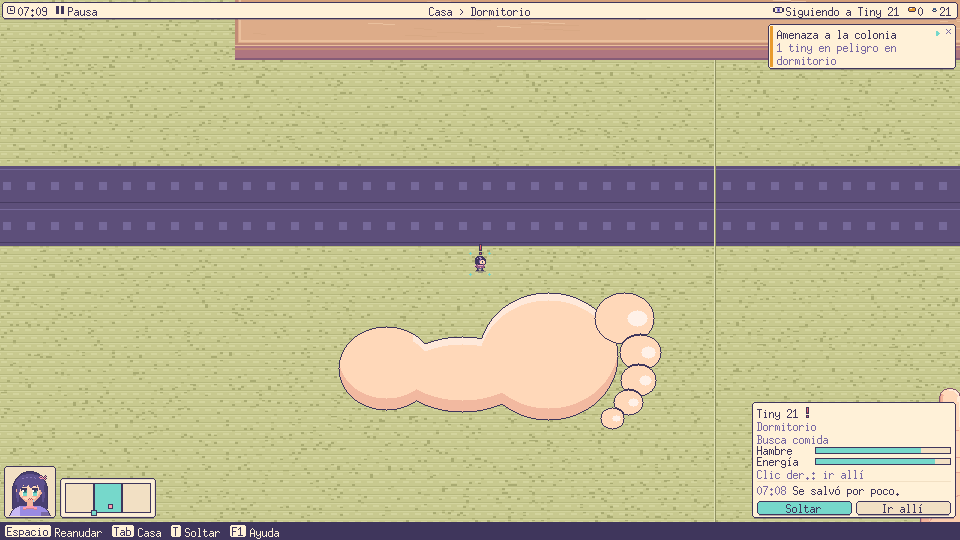
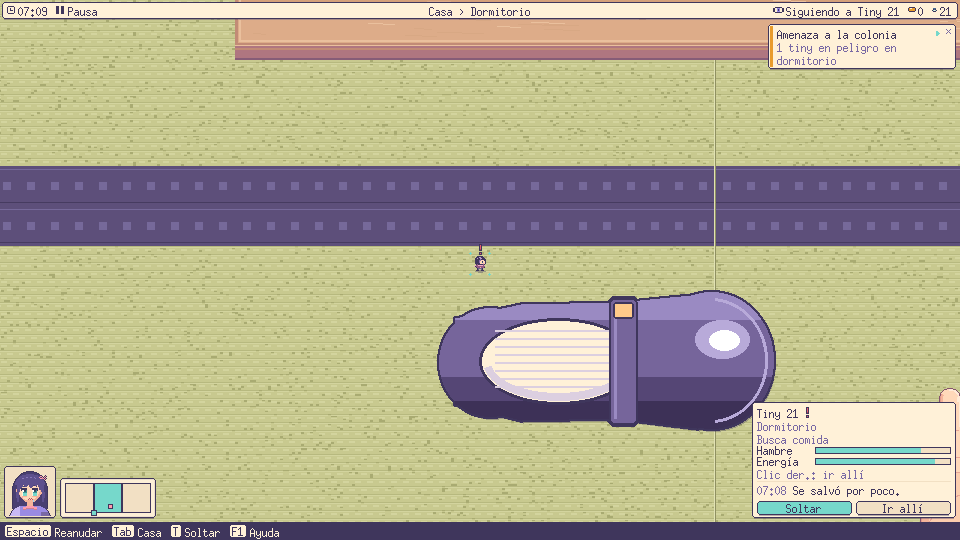
new shoes

Changed region(s): [[0.3438, 0.5333, 0.8125, 0.8]]

diff --git a/tools/art/floors.py b/tools/art/floors.py
@@ -14,7 +14,7 @@ presentación le da la transparencia).
 import math
 import os
 
-from PIL import Image
+from PIL import Image, ImageDraw
 
 from px import Canvas, hexc
 
@@ -106,50 +106,85 @@ TURNS = {'east': 0, 'north': 90, 'west': 180, 'south': 270}
 
 
 def foot_shape(skin=True):
-    """Pie derecho visto desde arriba mirando al este: talón a la izquierda,
-    dedos a la derecha. Es una unión de elipses: talón, arco, planta y dedos."""
-    c = Canvas(FOOT, FOOT)
+    """Calzado violeta con media crema visto desde arriba mirando al este
+    (talón a la izquierda, puntera redondeada a la derecha), 384 × 384 px."""
     cy = FOOT // 2
-    body = [(74, cy + 14, 48, 42), (150, cy + 20, 64, 38), (236, cy + 2, 70, 64)]
-    toes = [(312, cy - 36, 30, 26), (328, cy - 2, 21, 18), (326, cy + 26, 18, 16), (316, cy + 48, 15, 13),
-            (300, cy + 64, 12, 11)]
+    ink = hexc(INK)
+    shoe, shoe_l, shoe_hi, shoe_d, shoe_d2 = (
+        hexc('#76659B'), hexc('#9A8AC2'), hexc('#B8AAD9'), hexc('#554675'), hexc('#3D3157')
+    )
+    sock, sock_d = hexc('#FFF1D8'), hexc('#DCCFE0')
+    buckle, white = hexc('#FFCA8A'), hexc('#FFFFFF')
 
-    def ell(x, y, e):
-        ex, ey, rx, ry = e
-        return ((x - ex) / rx) ** 2 + ((y - ey) / ry) ** 2 <= 1
+    im = Image.new('RGBA', (FOOT, FOOT), (0, 0, 0, 0))
+    d = ImageDraw.Draw(im)
+    # Silueta del calzado mirando al este: talón a la izquierda, puntera redondeada a la derecha
+    shoe_pts = [
+        (42, cy - 42), (108, cy - 56), (206, cy - 58), (288, cy - 66),
+        (338, cy - 46), (354, cy - 16), (354, cy + 20), (336, cy + 50),
+        (284, cy + 68), (202, cy + 58), (108, cy + 60), (42, cy + 44),
+    ]
+    d.polygon(shoe_pts, fill=shoe)
+    d.ellipse([236, cy - 68, 360, cy + 68], fill=shoe)
+    d.ellipse([26, cy - 52, 128, cy + 56], fill=shoe)
 
-    shape = {}
+    if not skin:
+        px = im.load()
+        for y in range(FOOT):
+            for x in range(FOOT):
+                if px[x, y][3] > 0:
+                    px[x, y] = ink
+        return im
+
+    # Sombreado cel-shading (luz desde arriba a la izquierda)
+    px = im.load()
     for y in range(FOOT):
         for x in range(FOOT):
-            if any(ell(x, y, e) for e in body):
-                shape[x, y] = 'b'
-            for i, t in enumerate(toes):
-                if ell(x, y, t):
-                    shape[x, y] = i
-    if not skin:
-        for x, y in shape:
-            c.im.putpixel((x, y), hexc(INK))
-        return c.im
-    skin_c, shade, light, nail = hexc('#FFD8B9'), hexc('#F2B9A0'), hexc('#FFE9DA'), hexc('#FFF1E8')
-    for (x, y), part in shape.items():
-        col = skin_c
-        if part == 'b':
-            if (x, y + 12) not in shape:
-                col = shade  # lado de afuera, en sombra
-            elif (x, y - 8) not in shape and 100 < x < 290:
-                col = light  # empeine iluminado
-        c.im.putpixel((x, y), col)
-    ink = hexc(INK)
-    for (x, y), part in shape.items():
-        edge = any(shape.get((x + dx, y + dy)) is None for dx, dy in ((1, 0), (-1, 0), (0, 1), (0, -1)))
-        # surco entre cada dedo y lo demás
-        seam = isinstance(part, int) and any(
-            shape.get((x + dx, y + dy)) not in (None, part) for dx, dy in ((1, 0), (-1, 0), (0, 1), (0, -1)))
-        if edge or seam:
-            c.im.putpixel((x, y), ink)
-    for tx, ty, rx, ry in toes:  # uñas
-        c.ellipse(tx + rx // 2 - 2, ty, max(rx // 3, 3), max(ry // 3, 3), nail)
-    return c.im
+            if px[x, y][3] == 0:
+                continue
+            v = (y - (cy - 68)) / 136.0
+            if v < 0.20:
+                px[x, y] = shoe_l
+            elif v > 0.80:
+                px[x, y] = shoe_d2
+            elif v > 0.62:
+                px[x, y] = shoe_d
+
+    # Brillo lustroso en la puntera derecha y pespunte perimetral
+    d.arc([240, cy - 62, 354, cy + 62], start=275, end=85, fill=shoe_hi, width=3)
+    d.ellipse([282, cy - 40, 336, cy - 2], fill=shoe_hi)
+    d.ellipse([296, cy - 30, 326, cy - 10], fill=white)
+
+    # Abertura del zapato mostrando la media crema acanalada
+    d.ellipse([66, cy - 42, 224, cy + 44], fill=sock, outline=ink, width=3)
+    d.arc([70, cy - 38, 220, cy + 40], start=20, end=170, fill=sock_d, width=8)
+    for y in range(cy - 30, cy + 34, 8):
+        d.line([(82, y), (208, y)], fill=sock_d, width=2)
+
+    # Correa Mary-Jane cruzando el empeine con hebilla dorada
+    d.rounded_rectangle([196, cy - 62, 224, cy + 64], radius=6, fill=shoe, outline=ink, width=2)
+    d.line([(202, cy - 56), (202, cy + 58)], fill=shoe_l, width=3)
+    d.rounded_rectangle([200, cy - 58, 220, cy - 42], radius=3, fill=buckle, outline=ink, width=2)
+
+    # Contorno exterior de 2 px
+    src = im.load()
+    out = im.copy()
+    dst = out.load()
+    for y in range(FOOT):
+        for x in range(FOOT):
+            if src[x, y][3] > 0:
+                continue
+            for dy in (-2, -1, 0, 1, 2):
+                for dx in (-2, -1, 0, 1, 2):
+                    if dx * dx + dy * dy <= 5:
+                        nx, ny = x + dx, y + dy
+                        if 0 <= nx < FOOT and 0 <= ny < FOOT and src[nx, ny][3] > 200:
+                            dst[x, y] = ink
+                            break
+                else:
+                    continue
+                break
+    return out
 
 
 def foot():

diff --git a/internal/view/frame.go b/internal/view/frame.go
@@ -8,6 +8,7 @@ package view
 
 import (
 	"cmp"
+	"math"
 	"slices"
 
 	"gtsandbox/internal/core/fixedmath"
@@ -214,6 +215,18 @@ type Step struct {
 // StepTicks es cuánto se ve un pie apoyado.
 const StepTicks clock.Tick = 8
 
+// Foot es la posición visual de uno de los dos pies (izquierdo o derecho) de
+// un caminante con Stride sobre el piso, con su elevación Lift en [0, 1]
+// (0 = apoyado en el piso, 1 = punto más alto del paso al caminar).
+type Foot struct {
+	Walker ids.ID     `json:"walker"`
+	Space  ids.ID     `json:"space"`
+	Pos    units.Vec3 `json:"pos"`
+	Dir    units.Vec2 `json:"dir"`
+	Right  bool       `json:"right,omitempty"`
+	Lift   float32    `json:"lift,omitempty"`
+}
+
 // Mover resume un nav.Mover. Route son los puntos de mundo que faltan
 // recorrer, empezando por la posición actual.
 type Mover struct {
@@ -271,6 +284,9 @@ type Frame struct {
 	Footprints []Footprint `json:"footprints,omitempty"`
 	// Steps son las pisadas recientes (el pie apoyado).
 	Steps []Step `json:"steps,omitempty"`
+	// Feet son ambos pies (izquierdo y derecho) de cada caminante con Stride,
+	// visibles todo el tiempo en micro y animados al levantarlos para caminar.
+	Feet []Foot `json:"feet,omitempty"`
 	// Colonies resume el estado de cada colonia (despensa y refugio).
 	Colonies []Colony `json:"colonies,omitempty"`
 	// Marks son pistas vistas y destinos confirmados para el miniplano en micro.
@@ -446,6 +462,70 @@ func (c *Capturer) Capture(w *world.World) *Frame {
 			}
 		}
 	}
+	// Ambos pies de cada caminante con Stride (plantados al estar quieto,
+	// alternando apoyo y elevación suave al caminar).
+	strides.Each(func(e ids.ID, st *crush.Stride) {
+		if r.Despawning(e) {
+			return
+		}
+		l, ok := cs.Location.Get(e)
+		if !ok || l.Space.IsNil() {
+			return
+		}
+		dir := st.Dir
+		moving := false
+		if mv, ok := movers.Get(e); ok && mv.Status == nav.Moving {
+			moving = true
+		}
+		if !moving || (dir.X == 0 && dir.Y == 0) {
+			rad := float64(l.Facing.Norm()) * 2 * math.Pi / float64(fixedmath.Turn)
+			dir = units.V2(units.Length(math.Round(math.Cos(rad)*10000)), units.Length(math.Round(math.Sin(rad)*10000)))
+		}
+		dlen := float64(dir.Len())
+		if dlen <= 0 {
+			dir = units.V2(10000, 0)
+			dlen = 10000
+		}
+		fx, fy := float64(dir.X)/dlen, float64(dir.Y)/dlen
+		rx, ry := fy, -fx // vector hacia la derecha de la marcha
+		side := float64(st.Side)
+		if side <= 0 {
+			side = float64(10 * units.Centimeter)
+		}
+		var phase float64
+		if moving && st.Length > 0 {
+			phase = max(0, min(1, float64(st.Travel)/float64(st.Length)))
+		}
+		for _, right := range [2]bool{false, true} {
+			sign := -1.0
+			if right {
+				sign = 1.0
+			}
+			var along float64
+			var lift float32
+			if moving && st.Length > 0 {
+				half := float64(st.Length) * 0.25
+				if right == st.Right {
+					// Pie que avanza en el aire hacia la próxima pisada.
+					along = (phase*2 - 1) * half
+					lift = float32(math.Sin(phase * math.Pi))
+				} else {
+					// Pie de apoyo plantado en el suelo mientras el cuerpo avanza.
+					along = (1 - phase*2) * half
+				}
+			}
+			lx := l.Pos.X + units.Length(math.Round(fx*along+rx*side*sign))
+			ly := l.Pos.Y + units.Length(math.Round(fy*along+ry*side*sign))
+			at, err1 := g.ToWorld(l.Space, units.V3(lx, ly, 0))
+			ahead, err2 := g.ToWorld(l.Space, units.V3(lx+dir.X, ly+dir.Y, 0))
+			if err1 == nil && err2 == nil {
+				f.Feet = append(f.Feet, Foot{
+					Walker: e, Space: l.Space, Pos: at,
+					Dir: ahead.Sub(at).XY(), Right: right, Lift: lift,
+				})
+			}
+		}
+	})
 
 	contacts := ecs.Get[attach.Contact](r)
 	ecs.Get[nav.Portal](r).Each(func(id ids.ID, p *nav.Portal) {

diff --git a/internal/render/pixels.go b/internal/render/pixels.go
@@ -424,6 +424,12 @@ func (a *Atlas) Arrange(f *view.Frame, p camera.Projector, visuals map[ids.ID]st
 		}
 		return worldPos
 	}
+	feetOnFocus := map[ids.ID]bool{}
+	for _, ft := range f.Feet {
+		if inFocus(ft.Space) {
+			feetOnFocus[ft.Walker] = true
+		}
+	}
 	for _, s := range f.Spaces {
 		if !inFocus(s.ID) {
 			continue
@@ -432,9 +438,13 @@ func (a *Atlas) Arrange(f *view.Frame, p camera.Projector, visuals map[ids.ID]st
 		// proyectadas en 3D solo dibujan su micro cuando son el foco. Las demás
 		// partes articuladas del cuerpo (salvo la palma) solo se dibujan cuando
 		// son el foco o están en contacto directo con él, para que la cabeza o
-		// las caderas no tapen el pie o el suelo en vista micro.
+		// las caderas no tapen el pie o el suelo en vista micro. Los pies ya
+		// animados por f.Feet sobre el piso tampoco se duplican.
 		if scale == Micro && s.ID != focus {
 			if visuals[s.ID] == ClimbVisual || visuals[s.ID] == "sofa_pocket" || s.Projected {
+				continue
+			}
+			if (visuals[s.ID] == "body_foot_l" || visuals[s.ID] == "body_foot_r") && feetOnFocus[s.Parent] {
 				continue
 			}
 			if s.Kind == space.Articulated && visuals[s.ID] != "palm" && !scope[s.ID] {
@@ -516,8 +526,28 @@ func (a *Atlas) Arrange(f *view.Frame, p camera.Projector, visuals map[ids.ID]st
 			add(fp.Walker, fp.Space, ids.Nil, fp.Pos, []string{"shadow_" + heading(fp.Dir)}, false, image.Point{},
 				look{visual: FootVisual, ghost: true, layer: layerGround, alpha: 0.15 + 0.45*max(near, 0)})
 		}
+		// Ambos pies (izquierdo y derecho) visibles todo el tiempo en el piso,
+		// con sombra dinámica y elevación al levantarlos para caminar.
+		focusIsFoot := visuals[focus] == "body_foot_l" || visuals[focus] == "body_foot_r"
+		drawnFeet := map[ids.ID]bool{}
+		if !focusIsFoot {
+			for _, ft := range f.Feet {
+				if !inFocus(ft.Space) {
+					continue
+				}
+				drawnFeet[ft.Walker] = true
+				dir := heading(ft.Dir)
+				shOff := image.Pt(2+int(math.Round(8*float64(ft.Lift))), 3+int(math.Round(12*float64(ft.Lift))))
+				shAlpha := float32(0.32 - 0.14*ft.Lift)
+				add(ft.Walker, ft.Space, ids.Nil, ft.Pos, []string{"shadow_" + dir}, false, shOff,
+					look{visual: FootVisual, ghost: true, layer: layerGround, alpha: shAlpha})
+				liftPx := int(math.Round(float64(ft.Lift) * 34))
+				add(ft.Walker, ft.Space, ids.Nil, ft.Pos, []string{"foot_" + dir}, false, image.Pt(0, -liftPx),
+					look{visual: FootVisual, ghost: true, layer: layerForeground})
+			}
+		}
 		for _, st := range f.Steps {
-			if inFocus(st.Space) {
+			if inFocus(st.Space) && !drawnFeet[st.Walker] {
 				add(st.Walker, st.Space, ids.Nil, st.Pos, []string{"foot_" + heading(st.Dir)}, false, image.Point{},
 					look{visual: FootVisual, ghost: true, layer: layerForeground})
 			}

diff --git a/cmd/game/body_visuals_test.go b/cmd/game/body_visuals_test.go
@@ -240,3 +240,65 @@ func TestBodyMicroAlignmentWhenGiantessRotated(t *testing.T) {
 		}
 	}
 }
+
+// Verifica que en vista micro del piso se ven ambos pies (calzados) todo el
+// tiempo y que al caminar uno se levanta mientras el otro queda apoyado.
+func TestMicroBothFeetVisibleAndAnimatedWhileWalking(t *testing.T) {
+	g := artGame(t, randomBase)
+	g.w, g.h = 960, 540
+	g.run.StepOnce()
+	f := g.run.Cur
+
+	var giantessID, roomID ids.ID
+	for _, s := range f.Spaces {
+		if s.Name == "giantess" {
+			giantessID, roomID = s.ID, s.Parent
+			break
+		}
+	}
+	if giantessID.IsNil() || roomID.IsNil() {
+		t.Fatal("falta giantess o habitación")
+	}
+
+	// Quieta o caminando, siempre deben existir 2 pies en f.Feet.
+	if len(f.Feet) != 2 {
+		t.Fatalf("se esperaban 2 pies en Frame.Feet, hay %d", len(f.Feet))
+	}
+
+	// Avanzar hasta que la giantess camine y verificar que un pie se eleva (Lift > 0)
+	// mientras el otro permanece apoyado (Lift == 0) y ambos se dibujan en micro.
+	sawLift := false
+	for range 300 {
+		g.run.StepOnce()
+		f = g.run.Cur
+		if len(f.Feet) != 2 {
+			t.Fatalf("tick %d: se esperaban 2 pies, hay %d", f.Tick, len(f.Feet))
+		}
+		lifted, planted := 0, 0
+		for _, ft := range f.Feet {
+			if ft.Lift > 0.05 {
+				lifted++
+			} else {
+				planted++
+			}
+		}
+		if lifted == 1 && planted == 1 {
+			sawLift = true
+			roomID = f.Feet[0].Space
+			g.art.focus = roomID
+			g.cam.Anchor = ids.Nil
+			g.cam.X, g.cam.Y = float64(f.Feet[0].Pos.X), float64(f.Feet[0].Pos.Y)
+			g.syncArtZoom(f)
+			proj := g.cam.Project(g.anchor(f), g.w, g.h)
+			scene := g.art.atlas.Arrange(f, proj, g.visuals, render.Micro, roomID)
+			marks := scene.Marks(giantessID)
+			if len(marks) < 4 {
+				t.Fatalf("se esperaban al menos 2 pies + 2 sombras en micro, hubo %v", marks)
+			}
+			break
+		}
+	}
+	if !sawLift {
+		t.Fatal("nunca se observó un pie levantado y otro apoyado mientras la giantess camina")
+	}
+}

diff --git a/internal/view/lerp.go b/internal/view/lerp.go
@@ -20,6 +20,21 @@ func Interpolate(prev, cur *Frame, alpha float64) *Frame {
 	out := *cur
 	out.Spaces = append([]Space(nil), cur.Spaces...)
 	out.Things = append([]Thing(nil), cur.Things...)
+	out.Feet = append([]Foot(nil), cur.Feet...)
+	for i := range out.Feet {
+		ft := &out.Feet[i]
+		for _, p := range prev.Feet {
+			if p.Walker == ft.Walker && p.Space == ft.Space && p.Right == ft.Right {
+				d := ft.Pos.Sub(p.Pos)
+				if d.LengthSq() <= int64(MaxLerp)*int64(MaxLerp) {
+					l := func(x units.Length) units.Length { return units.Length(float64(x) * alpha) }
+					ft.Pos = p.Pos.Add(units.V3(l(d.X), l(d.Y), l(d.Z)))
+					ft.Lift = p.Lift + (ft.Lift-p.Lift)*float32(alpha)
+				}
+				break
+			}
+		}
+	}
 	for i := range out.Spaces {
 		if p, ok := prev.SpaceByID(out.Spaces[i].ID); ok {
 			out.Spaces[i].Pose = lerpPose(p.Pose, out.Spaces[i].Pose, alpha)
